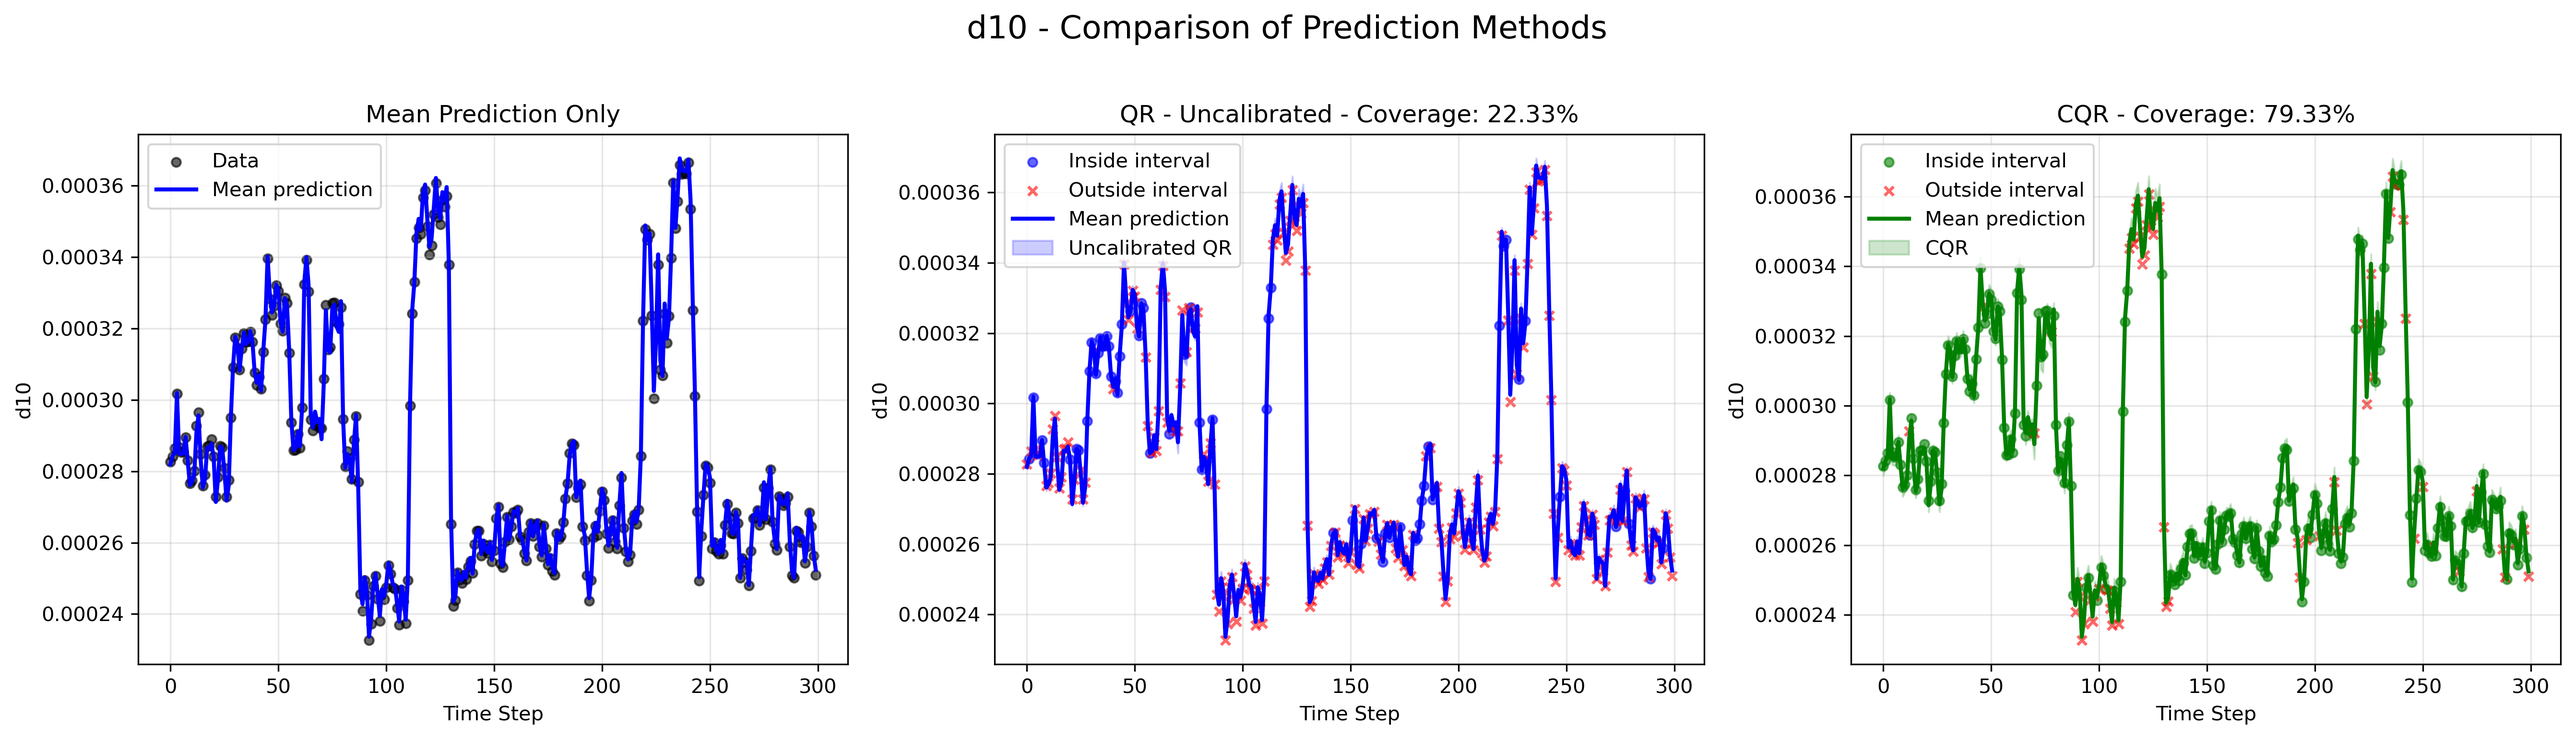
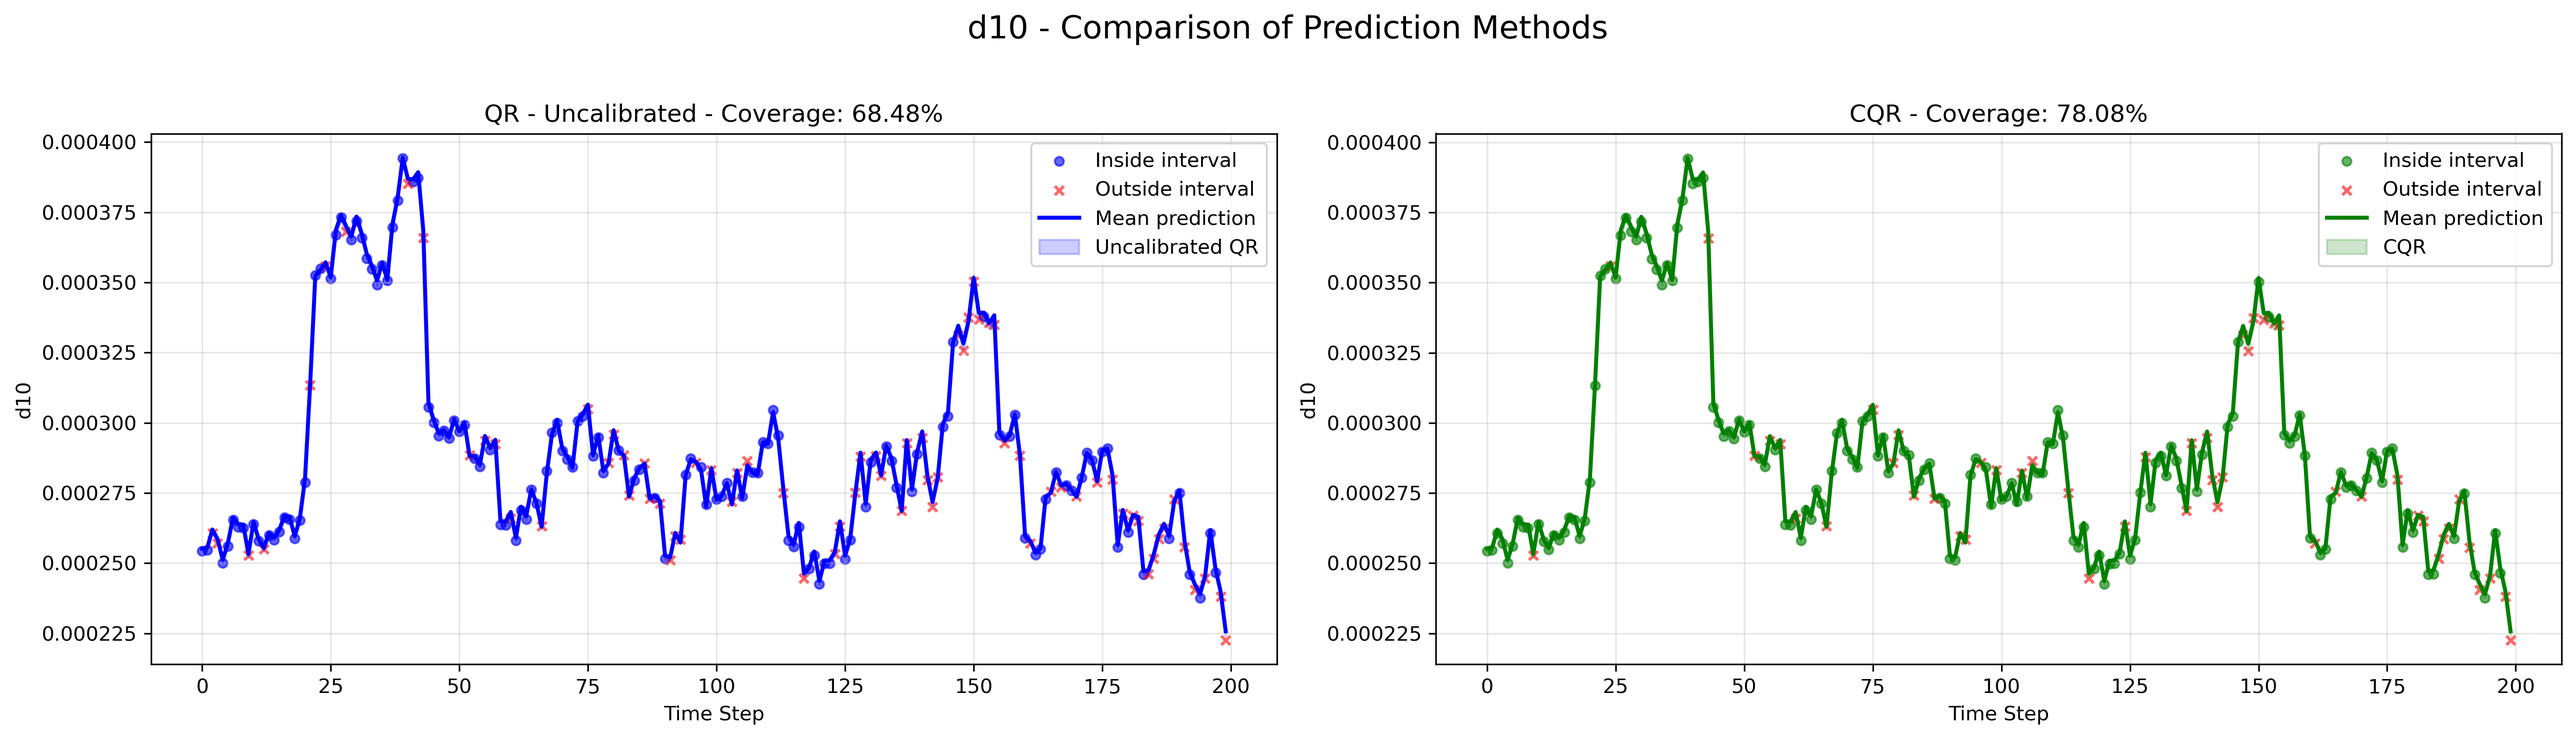
Update scaler, rerun

diff --git a/tools/cqr/cqr_simple.py b/tools/cqr/cqr_simple.py
@@ -7,7 +7,7 @@ import torch.optim as optim
 from torch.utils.data import Dataset, DataLoader
 import matplotlib.pyplot as plt
 from sklearn.model_selection import train_test_split
-from sklearn.preprocessing import MinMaxScaler, StandardScaler
+from sklearn.preprocessing import StandardScaler
 from pathlib import Path
 import random
 
@@ -25,6 +25,9 @@ DEVICE = torch.device("cuda" if torch.cuda.is_available() else "cpu")
 TAU_LOW = 0.1
 TAU_HIGH = 0.9
 ALPHA = 1 - (TAU_HIGH - TAU_LOW)
+SEED = 40
+
+random.seed(SEED)
 
 class ErrorDataset(Dataset):
     """Dataset for training quantile regressors on prediction errors"""
@@ -67,12 +70,15 @@ def pinball_loss(predictions, targets, tau):
     )
     return torch.mean(loss)
 
-def unscale_state_values(arr, state_idx, scaler):
-    # dummy = np.zeros((len(arr), STATE_COLS + CONTROL_COLS))
-    # dummy[:, state_idx] = arr
-    # return scaler.inverse_transform(dummy)[:, state_idx]
-    return arr * scaler.scale_[state_idx] + scaler.mean_[state_idx]
+def load_batch_data(file_path, window_size, scaler, sm_filt=True):
+    """Load and process a single batch file consistently with train.py"""
+    cleaned = clean_batch(file_path, sm_filt=sm_filt)
+    scaled = scaler.transform(cleaned)
+    X, Y = window_batch_data(scaled, window_size)
+    return X, Y
 
+def unscale_state_values(arr, state_idx, scaler):
+    return arr * scaler.scale_[state_idx] + scaler.mean_[state_idx]
 
 # ============= TASK 1: Generate Error Dataset and Train Quantile Regressors =============
 
@@ -84,21 +90,16 @@ def generate_error_dataset(model, data_files, window_size, scaler):
     all_errors = {f'state_{i}': [] for i in range(STATE_COLS)}
     
     with torch.no_grad():
-        data_cleaned = []
-        for file in data_files:
-            cleaned = clean_batch(file)
-            data_cleaned.append(cleaned)
-        for i, cleaned in enumerate(data_cleaned):
+        for i, file_path in enumerate(data_files):
             if i % 5 == 0:
                 print(f"  Processing file {i+1}/{len(data_files)}...")
             
-            scaled = scaler.transform(cleaned)    
-            X, Y = window_batch_data(scaled, window_size)
+            X, Y = load_batch_data(file_path, window_size, scaler)
             X_tensor = torch.tensor(X, dtype=torch.float32).to(DEVICE)
             Y_tensor = torch.tensor(Y, dtype=torch.float32)
             
             Y_pred = model(X_tensor).cpu()
-            errors = Y_pred - Y_tensor
+            errors = Y_tensor - Y_pred
             
             all_inputs.extend(X)
             for j in range(STATE_COLS):
@@ -148,13 +149,8 @@ def compute_conformity_scores(model, quantile_models, cal_files, window_size, sc
             qr.eval()
     
     with torch.no_grad():
-        cal_cleaned = []
-        for file in cal_files:
-            cleaned = clean_batch(file)
-            cal_cleaned.append(cleaned)
-        for cleaned in cal_cleaned:
-            scaled = scaler.transform(cleaned)
-            X, Y = window_batch_data(scaled, window_size)
+        for file_path in cal_files:
+            X, Y = load_batch_data(file_path, window_size, scaler)
             X_tensor = torch.tensor(X, dtype=torch.float32).to(DEVICE)
             Y_tensor = torch.tensor(Y, dtype=torch.float32)
             
@@ -167,12 +163,12 @@ def compute_conformity_scores(model, quantile_models, cal_files, window_size, sc
                 q_low = quantile_models[state_name]['low'](X_tensor).cpu().squeeze()
                 q_high = quantile_models[state_name]['high'](X_tensor).cpu().squeeze()
                 
-                # Compute conformity scores
+                # Compute conformity scores consistently
                 y_true = Y_tensor[:, i]
                 y_pred = Y_pred[:, i]
-                
-                # E_i = max(q_low - (y_true - y_pred), (y_true - y_pred) - q_high)
                 actual_error = y_true - y_pred
+                
+                # E_i = max(q_low - error, error - q_high)
                 lower_score = q_low - actual_error
                 upper_score = actual_error - q_high
                 scores = torch.maximum(lower_score, upper_score)
@@ -194,20 +190,16 @@ def compute_conformity_scores(model, quantile_models, cal_files, window_size, sc
 # ============= TASK 3: Analyze and Visualize Performance =============
 
 def compute_all_predictions_and_coverage(model, quantile_models, correction_factors, test_files, window_size, scaler):
+    """Compute predictions and coverage statistics for all test files"""
     print("\nComputing predictions and coverage for all test files")
 
     # Store all computed results
     all_results = []
-    
-    test_cleaned = []
-    for file in test_files:
-        cleaned = clean_batch(file)
-        test_cleaned.append(cleaned)
-    for file_idx, (cleaned, test_file) in enumerate(zip(test_cleaned, test_files)):
+
+    for file_idx, test_file in enumerate(test_files):
         print(f"Processing file {file_idx + 1}/{len(test_files)}: {os.path.basename(test_file)}")
         
-        scaled = scaler.transform(cleaned)
-        X, Y = window_batch_data(scaled, window_size)
+        X, Y = load_batch_data(test_file, window_size, scaler)
         X_tensor = torch.tensor(X, dtype=torch.float32).to(DEVICE)
         
         # Store results for this file
@@ -220,19 +212,13 @@ def compute_all_predictions_and_coverage(model, quantile_models, correction_fact
             state_name = f'state_{state_idx}'
             state_label = STATE_NAMES[state_idx]
 
-            # Sample subset for efficiency
-            n_points = min(300, len(X))
-            indices = np.linspace(0, len(X)-1, n_points, dtype=int)
-            X_subset = X_tensor[indices]
-            Y_subset = Y[indices, state_idx]
-
+            # Use ALL points for statistics
             with torch.no_grad():
-                # Get predictions and quantiles
-                Y_pred_all = model(X_subset).cpu().numpy()
+                # Get predictions and quantiles for ALL points
+                Y_pred_all = model(X_tensor).cpu().numpy()
                 Y_pred = Y_pred_all[:, state_idx]
-                q_low = quantile_models[state_name]['low'](X_subset).cpu().squeeze().numpy()
-                q_high = quantile_models[state_name]['high'](X_subset).cpu().squeeze().numpy()
-
+                q_low = quantile_models[state_name]['low'](X_tensor).cpu().squeeze().numpy()
+                q_high = quantile_models[state_name]['high'](X_tensor).cpu().squeeze().numpy()
                 # Compute intervals
                 uncal_lower = Y_pred + q_low
                 uncal_upper = Y_pred + q_high
@@ -240,31 +226,41 @@ def compute_all_predictions_and_coverage(model, quantile_models, correction_fact
                 cal_lower = uncal_lower - correction
                 cal_upper = uncal_upper + correction
 
-            # Unscale everything
-            Y_true_uns = unscale_state_values(Y_subset, state_idx, scaler)
+            # Unscale everything (using ALL points)
+            Y_true_uns = unscale_state_values(Y[:, state_idx], state_idx, scaler)
             Y_pred_uns = unscale_state_values(Y_pred, state_idx, scaler)
             uncal_lower_uns = unscale_state_values(uncal_lower, state_idx, scaler)
             uncal_upper_uns = unscale_state_values(uncal_upper, state_idx, scaler)
             cal_lower_uns = unscale_state_values(cal_lower, state_idx, scaler)
             cal_upper_uns = unscale_state_values(cal_upper, state_idx, scaler)
 
-            # Calculate coverage
+            # Calculate coverage on ALL points
             uncal_coverage = np.mean((Y_true_uns >= uncal_lower_uns) & (Y_true_uns <= uncal_upper_uns)) * 100
             cal_coverage = np.mean((Y_true_uns >= cal_lower_uns) & (Y_true_uns <= cal_upper_uns)) * 100
 
-            # Store all computed results for the state
+            # For plotting, sample a subset
+            n_plot_points = min(200, len(X))
+            plot_indices = np.linspace(0, len(X)-1, n_plot_points, dtype=int)
+
+            # Store all computed results
             file_results['states'][state_idx] = {
                 'state_name': state_name,
                 'state_label': state_label,
-                'n_points': n_points,
-                'Y_true_uns': Y_true_uns,
-                'Y_pred_uns': Y_pred_uns,
-                'uncal_lower_uns': uncal_lower_uns,
-                'uncal_upper_uns': uncal_upper_uns,
-                'cal_lower_uns': cal_lower_uns,
-                'cal_upper_uns': cal_upper_uns,
-                'uncal_coverage': uncal_coverage,
-                'cal_coverage': cal_coverage
+                'n_total_points': len(X),  # Total points used for statistics
+                'n_plot_points': n_plot_points,  # Points used for plotting
+                'plot_indices': plot_indices,
+                # Store full arrays for coverage calculation
+                'Y_true_uns_full': Y_true_uns,
+                'Y_pred_uns_full': Y_pred_uns,
+                # Store subset for plotting
+                'Y_true_uns': Y_true_uns[plot_indices],
+                'Y_pred_uns': Y_pred_uns[plot_indices],
+                'uncal_lower_uns': uncal_lower_uns[plot_indices],
+                'uncal_upper_uns': uncal_upper_uns[plot_indices],
+                'cal_lower_uns': cal_lower_uns[plot_indices],
+                'cal_upper_uns': cal_upper_uns[plot_indices],
+                'uncal_coverage': uncal_coverage,  # Calculated on ALL points
+                'cal_coverage': cal_coverage  # Calculated on ALL points
             }
         
         all_results.append(file_results)
@@ -281,6 +277,7 @@ def compute_all_predictions_and_coverage(model, quantile_models, correction_fact
     return all_results
 
 def plot_selected_file_results(selected_results, save_dir):
+    """Create comparison plots for a selected file"""
     filename = selected_results['filename']
     print(f"\nCreating plots for: {os.path.basename(filename)}")
     
@@ -290,8 +287,8 @@ def plot_selected_file_results(selected_results, save_dir):
         
         print(f"Plotting {state_label}...")
         
-        # Extract data
-        n_points = state_data['n_points']
+        # Extract plotting data (subset)
+        n_points = state_data['n_plot_points']
         Y_true_uns = state_data['Y_true_uns']
         Y_pred_uns = state_data['Y_pred_uns']
         uncal_lower_uns = state_data['uncal_lower_uns']
@@ -302,19 +299,10 @@ def plot_selected_file_results(selected_results, save_dir):
         cal_coverage = state_data['cal_coverage']
         
         # Create figure with 3 subplots
-        fig, (ax1, ax2, ax3) = plt.subplots(1, 3, figsize=(18, 5))
+        fig, (ax2, ax3) = plt.subplots(1, 2, figsize=(18, 5))
         x_plot = np.arange(n_points)
         
-        # Plot 1: Mean Prediction Only
-        ax1.scatter(x_plot, Y_true_uns, c='black', s=20, alpha=0.6, label='Data')
-        ax1.plot(x_plot, Y_pred_uns, 'b-', linewidth=2, label='Mean prediction')
-        ax1.set_xlabel('Time Step')
-        ax1.set_ylabel(state_label)
-        ax1.set_title('Mean Prediction Only')
-        ax1.legend()
-        ax1.grid(True, alpha=0.3)
-        
-        # Plot 2: Uncalibrated QR
+        # Plot 1: Uncalibrated QR
         uncal_inside = (Y_true_uns >= uncal_lower_uns) & (Y_true_uns <= uncal_upper_uns)
         
         ax2.scatter(x_plot[uncal_inside], Y_true_uns[uncal_inside], 
@@ -330,7 +318,7 @@ def plot_selected_file_results(selected_results, save_dir):
         ax2.legend()
         ax2.grid(True, alpha=0.3)
         
-        # Plot 3: CQR (Calibrated)
+        # Plot 2: CQR (Calibrated)
         cal_inside = (Y_true_uns >= cal_lower_uns) & (Y_true_uns <= cal_upper_uns)
         
         ax3.scatter(x_plot[cal_inside], Y_true_uns[cal_inside], 
@@ -351,22 +339,13 @@ def plot_selected_file_results(selected_results, save_dir):
         plt.savefig(f"{save_dir}/cqr_comparison_{state_label}.png", dpi=300, bbox_inches='tight')
         plt.close()
         
-        print(f"{state_label}: Uncalibrated {uncal_coverage:.2f}% → CQR {cal_coverage:.2f}%")
+        print(f"  {state_label}: Uncalibrated {uncal_coverage:.2f}% → CQR {cal_coverage:.2f}%")
 
-def initialize_scaler(train_files):
+def initialize_scaler(files):
     """Initialize and fit scaler on training data"""
     scaler = StandardScaler()
-    
-    all_cleaned_data = []
-    for file_path in train_files:
-        cleaned = clean_batch(file_path, sm_filt=True)
-        all_cleaned_data.append(cleaned)
-    
-    # Fit scaler on all concatenated data
-    concatenated_data = np.concatenate(all_cleaned_data, axis=0)
-    scaler.fit(concatenated_data)
-    
-    print(f"Scaler fitted on {len(concatenated_data)} samples from {len(train_files)} files")
+    cleaned_all = [clean_batch(f, sm_filt=True) for f in files]
+    scaler.fit(np.concatenate(cleaned_all, axis=0))
     return scaler
 
 def run_cqr_pipeline(model_path, data_path, results_dir, window_size):
@@ -378,8 +357,8 @@ def run_cqr_pipeline(model_path, data_path, results_dir, window_size):
     
     # Load data files and split
     data_files = [os.path.join(data_path, f) for f in os.listdir(data_path) if f.endswith(".txt")]
-    train_files, temp_files = train_test_split(data_files, test_size=0.3, random_state=44)
-    cal_files, test_files = train_test_split(temp_files, test_size=0.5, random_state=44)
+    train_files, temp_files = train_test_split(data_files, test_size=0.2, random_state=SEED)
+    cal_files, test_files = train_test_split(temp_files, test_size=0.5, random_state=SEED)
     
     print(f"Training: {len(train_files)} files")
     print(f"Calibration: {len(cal_files)} files")
@@ -422,7 +401,6 @@ def run_cqr_pipeline(model_path, data_path, results_dir, window_size):
         model, quantile_models, correction_factors, test_files, window_size, scaler
     )
     
-    random.seed(46)
     selected_results = random.choice(all_results)
     plot_selected_file_results(selected_results, save_dir)
     
